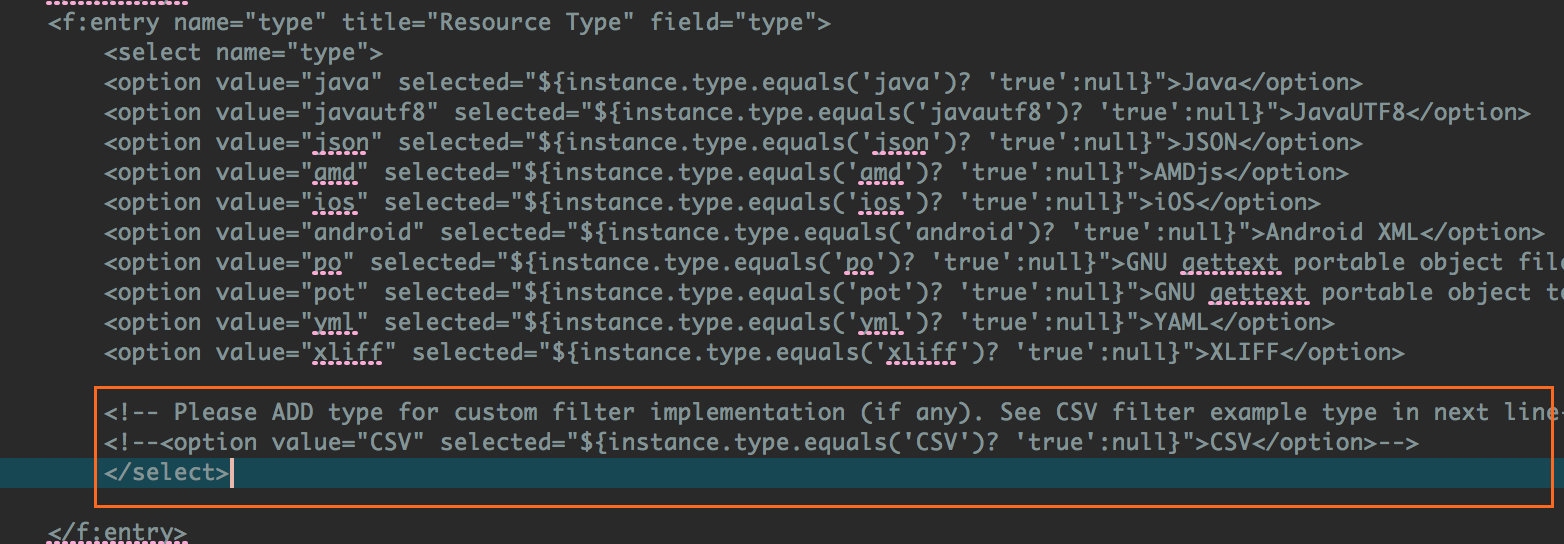
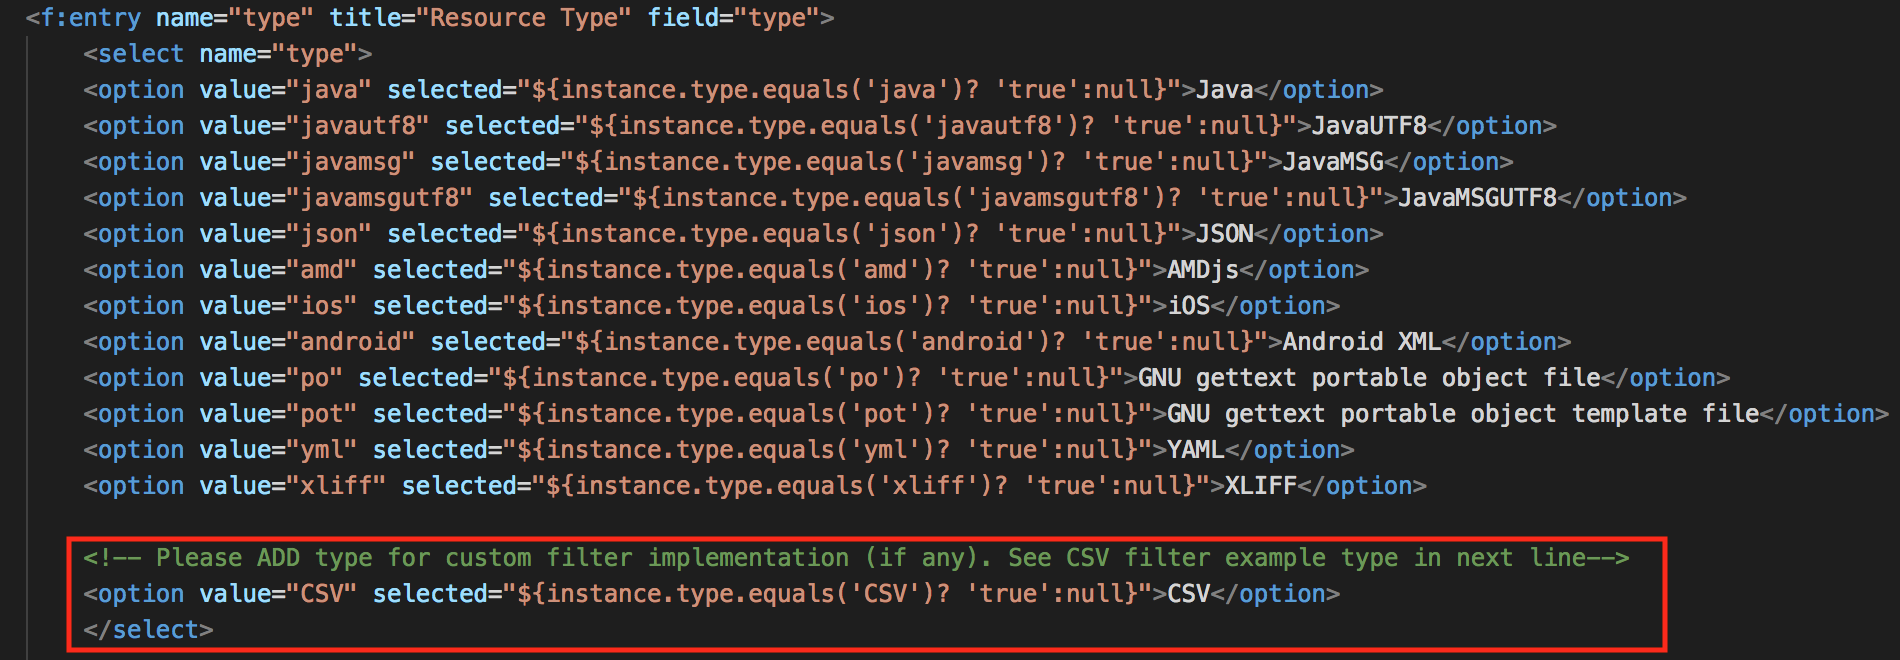
updating csv example

diff --git a/src/main/java/org/jenkinsci/plugins/gpjenkins/GlobalizationPipelineBuilder.java b/src/main/java/org/jenkinsci/plugins/gpjenkins/GlobalizationPipelineBuilder.java
@@ -15,58 +15,6 @@
  */
 
 package org.jenkinsci.plugins.gpjenkins;
-import hudson.Launcher;
-import hudson.Extension;
-import hudson.FilePath;
-import hudson.util.FormValidation;
-import hudson.util.ListBoxModel;
-import hudson.model.AbstractBuild;
-import hudson.model.AbstractProject;
-import hudson.model.Result;
-import hudson.model.Run;
-import hudson.model.TaskListener;
-import hudson.tasks.Builder;
-import hudson.tasks.CommandInterpreter;
-import hudson.tasks.Maven;
-import hudson.tasks.Shell;
-import hudson.tasks.BuildStepDescriptor;
-import jenkins.model.Jenkins;
-import jenkins.tasks.SimpleBuildStep;
-import net.sf.json.JSONObject;
-
-import org.apache.commons.fileupload.FileItem;
-import org.apache.commons.io.IOUtils;
-import org.kohsuke.stapler.AncestorInPath;
-import org.kohsuke.stapler.DataBoundConstructor;
-import org.kohsuke.stapler.StaplerRequest;
-
-import com.google.gson.Gson;
-import com.google.gson.JsonElement;
-import com.google.gson.JsonObject;
-import com.google.gson.JsonParseException;
-import com.google.gson.JsonParser;
-import com.google.gson.JsonSyntaxException;
-import com.ibm.g11n.pipeline.client.BundleData;
-import com.ibm.g11n.pipeline.client.NewBundleData;
-import com.ibm.g11n.pipeline.client.ServiceAccount;
-import com.ibm.g11n.pipeline.client.ServiceClient;
-import com.ibm.g11n.pipeline.client.ServiceException;
-import com.ibm.g11n.pipeline.client.rb.CloudResourceBundleControl;
-//import com.ibm.g11n.pipeline.example.CustomResourceFilterProvider;
-import com.ibm.g11n.pipeline.resfilter.FilterOptions;
-import com.ibm.g11n.pipeline.resfilter.LanguageBundle;
-import com.ibm.g11n.pipeline.resfilter.LanguageBundleBuilder;
-import com.ibm.g11n.pipeline.resfilter.ResourceFilter;
-import com.ibm.g11n.pipeline.resfilter.ResourceFilterException;
-import com.ibm.g11n.pipeline.resfilter.ResourceFilterFactory;
-import com.ibm.g11n.pipeline.resfilter.ResourceString;
-import com.ibm.g11n.pipeline.client.NewResourceEntryData;
-import com.ibm.g11n.pipeline.client.ResourceEntryData;
-
-import org.kohsuke.stapler.QueryParameter;
-
-import javax.servlet.ServletException;
-
 import java.io.File;
 import java.io.IOException;
 import java.io.InputStream;
@@ -76,8 +24,6 @@ import java.net.URL;
 import java.util.Collection;
 import java.util.HashMap;
 import java.util.HashSet;
-import java.util.Iterator;
-import java.util.LinkedList;
 import java.util.List;
 import java.util.Locale;
 import java.util.Map;
@@ -85,6 +31,50 @@ import java.util.Map.Entry;
 import java.util.ServiceLoader;
 import java.util.Set;
 import java.util.TreeSet;
+
+import javax.servlet.ServletException;
+
+import org.kohsuke.stapler.AncestorInPath;
+import org.kohsuke.stapler.DataBoundConstructor;
+import org.kohsuke.stapler.QueryParameter;
+import org.kohsuke.stapler.StaplerRequest;
+
+import com.google.gson.JsonElement;
+import com.google.gson.JsonObject;
+import com.google.gson.JsonParseException;
+import com.google.gson.JsonParser;
+import com.google.gson.JsonSyntaxException;
+import com.ibm.g11n.pipeline.client.BundleData;
+import com.ibm.g11n.pipeline.client.NewBundleData;
+import com.ibm.g11n.pipeline.client.NewResourceEntryData;
+import com.ibm.g11n.pipeline.client.ResourceEntryData;
+import com.ibm.g11n.pipeline.client.ServiceAccount;
+import com.ibm.g11n.pipeline.client.ServiceClient;
+import com.ibm.g11n.pipeline.client.ServiceException;
+import com.ibm.g11n.pipeline.resfilter.FilterOptions;
+import com.ibm.g11n.pipeline.resfilter.LanguageBundle;
+import com.ibm.g11n.pipeline.resfilter.LanguageBundleBuilder;
+import com.ibm.g11n.pipeline.resfilter.ResourceFilter;
+import com.ibm.g11n.pipeline.resfilter.ResourceFilterException;
+import com.ibm.g11n.pipeline.resfilter.ResourceFilterFactory;
+import com.ibm.g11n.pipeline.resfilter.ResourceString;
+import com.ibm.g11n.pipeline.resfilter.csv.CSVFilter;
+import com.ibm.g11n.pipeline.resfilter.impl.DefaultResourceFilterProvider;
+
+import hudson.Extension;
+import hudson.FilePath;
+import hudson.Launcher;
+import hudson.model.AbstractProject;
+import hudson.model.Result;
+import hudson.model.Run;
+import hudson.model.TaskListener;
+import hudson.tasks.BuildStepDescriptor;
+import hudson.tasks.Builder;
+import hudson.util.FormValidation;
+import jenkins.model.Jenkins;
+import jenkins.tasks.SimpleBuildStep;
+import net.sf.json.JSONObject;
+
 
 /**
  * Sample {@link Builder}.
@@ -316,7 +306,7 @@ public class GlobalizationPipelineBuilder extends Builder implements SimpleBuild
 
 		FilePath parent = path.getParent();
 		String pkgName = "";
-		if(type.equals("java")){
+		if(DefaultResourceFilterProvider.isJavaType(type)){
 			pkgName = parent == null ? "" :
 				computeParentFromBaseDir(path).replace(File.separatorChar, '.');
 		}
@@ -325,7 +315,7 @@ public class GlobalizationPipelineBuilder extends Builder implements SimpleBuild
 				computeParentFromBaseDir(path).replace(File.separatorChar, '-');
 		}
 		String fileName = path.getName().replaceAll(" ", "_");
-		if (type.equals("java")) {
+		if (DefaultResourceFilterProvider.isJavaType(type)) {
 			int dotIdx = fileName.indexOf('.');
 			if (dotIdx >= 0) {
 				fileName = fileName.substring(0, dotIdx);
@@ -419,6 +409,7 @@ public class GlobalizationPipelineBuilder extends Builder implements SimpleBuild
 				String srcVal = data.getSourceValue();
 				Integer seqNum = data.getSequenceNumber();
 				List<String> notes = data.getNotes();
+				Map<String, String> metadata = data.getMetadata();
 
 				if (reviewedOnly) {
 					if (!data.isReviewed()) {
@@ -438,6 +429,9 @@ public class GlobalizationPipelineBuilder extends Builder implements SimpleBuild
 					if (notes != null) {
 						resb.notes(notes);
 					}
+					if (metadata != null) {
+                        resb.metadata(metadata);
+                    }
 					bundleBuilder.addResourceString(resb);
 				}
 			}
@@ -808,23 +802,20 @@ public class GlobalizationPipelineBuilder extends Builder implements SimpleBuild
 					}
 					
 					
-					// UNCOMMENT FOR CUSTOM FILTER IMPLEMENTATION
-					/*
 					ClassLoader orig = Thread.currentThread().getContextClassLoader(); 
 					Thread.currentThread().setContextClassLoader(Jenkins.getInstance().getPluginManager().uberClassLoader); 
-					ServiceLoader.load(CustomResourceFilterProvider.class); // REPLACE `CustomResourceFilterProvider.class` with your custom filter provider class
-					*/
+					ServiceLoader.load(CSVFilter.class); 
+					/* 
+					 * (optional - only needed in case of adding your own custom filters)
+					 * ADD more custom filters as needed with your custom filter provider class
+					 * Above example uses CSV filter for example.
+					 * For e.g ServiceLoader.load(MyCustomFilter.class);
+					 */
 					
-					 
+					
 					// Parse the resource bundle file
 					ResourceFilter filter = ResourceFilterFactory.getResourceFilter(getType());
-					
-					
-					// UNCOMMENT FOR CUSTOM FILTER IMPLEMENTATION
-					/*
 					Thread.currentThread().setContextClassLoader(orig); 
-					*/
-					
 					
 					
 					
@@ -844,6 +835,7 @@ public class GlobalizationPipelineBuilder extends Builder implements SimpleBuild
 							}
 							// set bundle notes
 							newBundleData.setNotes(resBundle.getNotes());
+							newBundleData.setMetadata(resBundle.getMetadata());
 							gpClient.createBundle(bundleId, newBundleData);
 							listener.getLogger().println("Created bundle: " + bundleId);
 						}
@@ -856,6 +848,7 @@ public class GlobalizationPipelineBuilder extends Builder implements SimpleBuild
 							}
 							// set resource string notes
 							resEntryData.setNotes(resString.getNotes());
+							resEntryData.setMetadata(resString.getMetadata());
 							resEntries.put(resString.getKey(), resEntryData);
 						}
 					} catch (IOException e) {

diff --git a/README.md b/README.md
@@ -286,6 +286,8 @@ Specifies a resource type. Available options are
 
 * **JAVA** - Java property resource bundle file
 * **JAVAUTF8** - Java UTF8 property resource bundle file
+* **JAVAMSG** - Java property resource bundle file with MessageFormat pattern stirngs only
+* **JAVAMSGUTF8** - Java UTF8 property resource bundle file with MessageFormat pattern strings only
 * **JSON** - Resource string key/value pairs stored in JSON format. For now nested JSON object is not supported.
 * **AMDJS** - RequireJS I18N bundle file
 * **GLOBALIZEJS** - Globalize.js JSON resource bundle file
@@ -385,24 +387,22 @@ The default value is **LANGUAGE_SUFFIX**.
 
 
 
-# <a name="TOC-CustomFilter"></a>Custom Resource Filter
+# <a name="TOC-CustomFilter"></a>Custom Resource Filter (Optional)
 
 [Globalization Pipeline Resource Filter](https://github.com/IBM-Cloud/gp-java-tools/tree/master/gp-res-filter) provides
 a mechanism to implement your own custom filter, that can be used through
 Globalization Pipeline Maven Plugin/Ant Task and other tools (including this Jenkins Plugin).
 
-To embed your own custom filter with this Jenkins plugin, follow these steps
+To embed your own custom filter with this Jenkins plugin, follow these steps (showing an example of [CSV filter](https://github.com/IBM-Cloud/gp-java-tools/tree/master/csv-res-filter))
 
 1. Add your custom resource filter dependency in [pom.xml](https://github.com/IBM-Cloud/gp-jenkins/blob/master/pom.xml)
 <img src="assets/gp-jenkins-csv-filter.png" alt="gp-jenkins-csv-filter"/>
 
-The image above uses the example of [csv-filter](https://github.com/IBM-Cloud/gp-java-tools/tree/master/examples/custom-res-filter/csv-filter). Please use it for reference to create your own custom filter.
+The image above uses the example of [csv-res-filter](https://github.com/IBM-Cloud/gp-java-tools/tree/master/csv-res-filter). Please use it for reference to create your own custom filter.
 
 2. Add your filter type in [config.jelly](https://github.com/IBM-Cloud/gp-jenkins/blob/master/src/main/resources/org/jenkinsci/plugins/gpjenkins/GlobalizationPipelineBuilder/config.jelly)
 <img src="assets/gp-jenkins-custom-res-config.png" alt="gp-jenkins-custom-res-config"/>
-Again, the image above uses the type `CSV` from example of [csv-filter](https://github.com/IBM-Cloud/gp-java-tools/tree/master/examples/custom-res-filter/csv-filter). Please use it for reference to create your own custom filter.
 
 3. Allow Jenkins to load your provider class in [GlobalizationPipelineBuilder.java](https://github.com/IBM-Cloud/gp-jenkins/blob/master/src/main/java/org/jenkinsci/plugins/gpjenkins/GlobalizationPipelineBuilder.java)
 This is done during the `upload` part of implementation
 <img src="assets/gp-jenkins-custom-java.png" alt="gp-jenkins-custom-java"/>
-Again, the image above uses the example of [csv-filter](https://github.com/IBM-Cloud/gp-java-tools/tree/master/examples/custom-res-filter/csv-filter). Please use it for reference to create your own custom filter.
